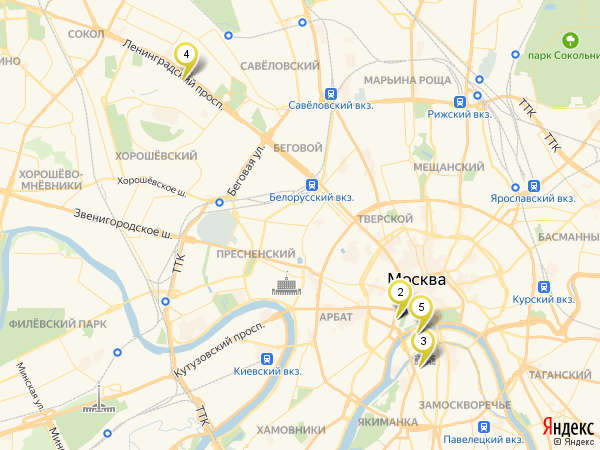
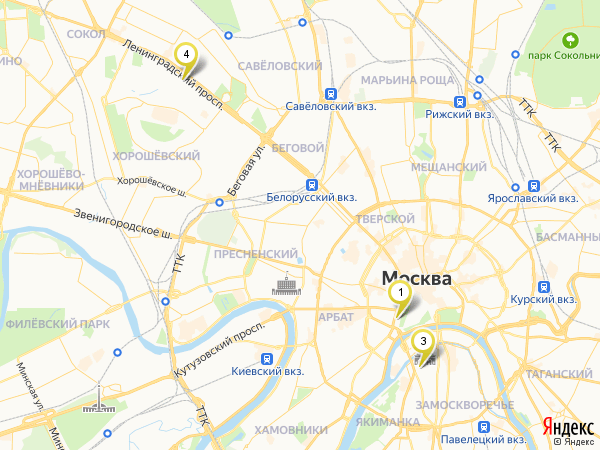
commit 4

diff --git a/templates/my_jobs.html b/templates/my_jobs.html
@@ -11,30 +11,37 @@
 <table class="table table-striped">
     <thead>
     <tr class="table-active">
-        <th scope="col">Title of activity</th>
-        <th scope="col">Team leader</th>
-        <th scope="col">Duration</th>
-        <th scope="col">List of collaborators</th>
-        <th scope="col">Is finished</th>
+        <th scope="col">Краткое описание работы</th>
+        <th scope="col">Адрес</th>
+        <th scope="col">Оплата за услугу (в рублях)</th>
+        <th scope="col">Дата и время, когда нужно прийти</th>
+        <th scope="col">Доп. информация</th>
     </tr>
     </thead>
     <tbody>
     <tr>
         <td>{{ item.description }}</td>
-        <td>{{ item.employer }}</td>
         <td>{{ item.address }}</td>
         <td>{{ item.salary }}</td>
         <td>{{ item.date }}</td>
         <td>{{ item.info }}</td>
-        <td>{{ item.is_finished }}</td>
     </tr>
-
     </tbody>
 </table>
 <div>
-    <a href="/addjob/{{ item.id }}" class="btn btn-warning" style="margin-bottom: 30px">Edit job</a>
-    <a href="/job_delete/{{ item.id }}" class="btn btn-danger" style="margin-bottom: 30px">Delete job</a>
+    <a href="/addjob/{{ item.id }}" class="btn btn-warning" style="margin-bottom: 30px">Редактировать</a>
+    <a href="/job_delete/{{ item.id }}" class="btn btn-danger" style="margin-bottom: 30px">Удалить</a>
 </div>
+
+{% if item.employee != 0 %}
+<div>
+    <p>За работу взялся (взялась, взялось, взялись):</p>
+    <p>{{ users[item.employee].surname }} {{ users[item.employee].name}}</p>
+    {% if users[item.employee].info != '' %}
+    <p>Доп.информация: {{ users[item.employee].info }}</p>
+    {% endif %}
+</div>
+{% endif %}
 {% endfor %}
 
 
@@ -47,29 +54,35 @@
 <table class="table table-striped">
     <thead>
     <tr class="table-active">
-        <th scope="col">Title of activity</th>
-        <th scope="col">Team leader</th>
-        <th scope="col">Duration</th>
-        <th scope="col">List of collaborators</th>
-        <th scope="col">Is finished</th>
+        <th scope="col">Краткое описание работы</th>
+        <th scope="col">Адрес</th>
+        <th scope="col">Оплата за услугу (в рублях)</th>
+        <th scope="col">Дата и время, когда нужно прийти</th>
+        <th scope="col">Доп. информация</th>
     </tr>
     </thead>
     <tbody>
     <tr>
         <td>{{ item.description }}</td>
-        <td>{{ item.employer }}</td>
         <td>{{ item.address }}</td>
         <td>{{ item.salary }}</td>
         <td>{{ item.date }}</td>
         <td>{{ item.info }}</td>
-        <td>{{ item.is_finished }}</td>
     </tr>
-
     </tbody>
 </table>
-{% endfor %}
 
+{% if item.employee != 0 %}
+<div>
+    <p>Услугу предоставил (предоставила, предоставило, предоставили):</p>
+    <p>{{ users[item.employee].surname }} {{ users[item.employee].name}}</p>
+    {% if users[item.employee].info != '' %}
+    <p>Доп.информация: {{ users[item.employee].info }}</p>
+    {% endif %}
+</div>
 {% endif %}
 
+{% endfor %}
+{% endif %}
 
 {% endblock %}

diff --git a/templates/index.html b/templates/index.html
@@ -35,37 +35,26 @@
 {% if item.is_finished == False %}
 <h4>Работа № {{ item.id }}</h4>
 
-
-<table class="table table-striped">
-    <thead>
-    <tr class="table-active">
-        <th scope="col">Краткое описание работы</th>
-        <th scope="col">id нанимателя</th>
-        <th scope="col">Адрес</th>
-        <th scope="col">Оплата за услугу (в рублях)</th>
-        <th scope="col">Дата и время, когда нужно прийти</th>
-        <th scope="col">Доп. информация</th>
-
-    </tr>
-    </thead>
-    <tbody>
-    <tr>
-        <td>{{ item.description }}</td>
-        <td>{{ item.employer }}</td>
-        <td>{{ item.address }}</td>
-        <td>{{ item.salary }}</td>
-        <td>{{ item.date }}</td>
-        <td>{{ item.info }}</td>
-    </tr>
-    </tbody>
-</table>
+<ul>
+    <li>Краткое описание работы: {{ item.description }}</li>
+    <li>Адрес: {{ item.address }}</li>
+    <li>Оплата за услугу: {{ item.salary }} руб.</li>
+    <li>Когда приходить: {{ item.date }}</li>
+</ul>
 
 {% if current_user.is_authenticated and current_user.id == item.employer %}
 <div>
-    <a href="/addjob/{{ item.id }}" class="btn btn-warning" style="margin-bottom: 30px">Edit job</a>
-    <a href="/job_delete/{{ item.id }}" class="btn btn-danger" style="margin-bottom: 30px">Delete job</a>
+    <a href="/addjob/{{ item.id }}" class="btn btn-warning" style="margin-bottom: 30px">Редактировать</a>
+    <a href="/job_delete/{{ item.id }}" class="btn btn-danger" style="margin-bottom: 30px">Удалить</a>
 </div>
 {% endif %}
+
+{% if current_user.is_authenticated and current_user.employment == 'Рабочий' %}
+<div>
+    <a href="/about_job/{{ item.id }}" class="btn btn-warning" style="margin-bottom: 30px">Подробнее</a>
+</div>
+{% endif %}
+
 {% endif %}
 {% endfor %}
 

diff --git a/templates/about.html b/templates/about.html
@@ -1,0 +1,40 @@
+{% extends "base.html" %}
+
+{% block content %}
+
+<h2 align="center">Все предложения работы</h2>
+
+<h4>Работа № {{ job.id }}</h4>
+
+<ul>
+    <li>Краткое описание работы: {{ job.description }}</li>
+    <li>Адрес: {{ job.address }}</li>
+    <li>Оплата за услугу: {{ job.salary }} руб.</li>
+    <li>Когда приходить: {{ job.date }}</li>
+    <li>Доп. информация: {{ job.info }}</li>
+</ul>
+<ul>Работодатель
+    <li>{{ employer.surname }} {{ employer.name }}</li>
+    <li>Email: {{ employer.email }}</li>
+    <li>Информация: {{ employer.info }}</li>
+</ul>
+
+
+<form action="" method="POST">
+    {% if current_user.is_authenticated and current_user.employment == 'Рабочий' and job.employee == 0 %}
+    <p>{{ form.submit_ready(type="submit", class="btn btn-primary") }}</p>
+
+    {% elif current_user.is_authenticated and current_user.id == job.employee %}
+    <div>
+        <p>Вы уже готовы приступить к работе</p>
+    </div>
+    <p>{{ form.submit_refuse(type="submit", class="btn btn-primary") }}</p>
+    {% elif current_user.is_authenticated and current_user.id != job.employee and job.employee != 0 %}
+    <div>
+        <p>Эту услугу уже кто-то предоствляет</p>
+    </div>
+    {% endif %}
+    {{message}}
+</form>
+
+{% endblock %}

diff --git a/data/jobs_api.py b/data/jobs_api.py
@@ -7,7 +7,7 @@ from werkzeug.utils import redirect
 
 from data import db_session
 from data.users import User
-from data.jobs import Jobs, JobsForm, AddressJob
+from data.jobs import Jobs, JobsForm, AddressJob, Ready
 from data.show_map import show, sort_address_jobs, sort_salary_jobs, sort_date_jobs
 
 blueprint = flask.Blueprint('jobs_api', __name__, template_folder='templates')
@@ -34,16 +34,19 @@ def index():
                 jobs = sort_date_jobs('down')
     if jobs is None:
         jobs = session.query(Jobs).all()
-    users = session.query(User).all()
-    return render_template("index.html", jobs=jobs, users=users, image=image, form=form)
+    return render_template("index.html", jobs=jobs, image=image, form=form)
 
 
 @blueprint.route("/myjobs")
 def myjobs():
     session = db_session.create_session()
     jobs = session.query(Jobs).filter(Jobs.employer == current_user.id, Jobs.is_finished == False).all()
+    sp = session.query(User).all()
+    users = {}
+    for user in sp:
+        users[user.id] = user
     jobs_done = session.query(Jobs).filter(Jobs.employer == current_user.id, Jobs.is_finished == True).all()
-    return render_template("my_jobs.html", jobs=jobs, jobs_done=jobs_done)
+    return render_template("my_jobs.html", jobs=jobs, users=users, jobs_done=jobs_done)
 
 
 @blueprint.route('/addjob', methods=['GET', 'POST'])
@@ -139,3 +142,25 @@ def job_delete(job_id):
     else:
         abort(404)
     return redirect('/myjobs')
+
+
+@blueprint.route('/about_job/<int:job_id>', methods=['GET', 'POST'])
+@login_required
+def about_job(job_id):
+    form = Ready()
+    session = db_session.create_session()
+    job = session.query(Jobs).filter(Jobs.id == job_id).first()
+    employer = session.query(User).filter(User.id == job.employer).first()
+    if request.method == "POST":
+        if form.submit_ready.data:
+            job.employee = current_user.id
+        if form.submit_refuse.data:
+            job.employee = 0
+    session.commit()
+    return render_template("about.html", job=job, employer=employer, form=form)
+
+
+@blueprint.route('/ready_to_work/<int:job_id>', methods=['GET', 'POST'])
+@login_required
+def ready_to_work(job_id):
+    return redirect('/')

diff --git a/data/jobs.py b/data/jobs.py
@@ -21,6 +21,7 @@ class Jobs(SqlAlchemyBase):
     date = sqlalchemy.Column(sqlalchemy.String)
     coords = sqlalchemy.Column(sqlalchemy.String)
     is_finished = sqlalchemy.Column(sqlalchemy.Boolean, default=False)
+    employee = sqlalchemy.Column(sqlalchemy.Integer, default=0)
     user = orm.relation('User')
 
 
@@ -31,7 +32,7 @@ class JobsForm(FlaskForm):
     address = TextAreaField("Адрес", validators=[DataRequired()])
     info = TextAreaField("Доп. информация")
     coords = TextAreaField("Координаты")
-    date = TextAreaField("Дата и время, когда нужно прийти", validators=[DataRequired()])
+    date = TextAreaField("Когда нужно прийти (дата и время)", validators=[DataRequired()])
     is_finished = BooleanField("Выполнена ли работа?")
     submit = SubmitField('Готово')
 
@@ -45,3 +46,8 @@ class AddressJob(FlaskForm):
     my_address = StringField('Ваш адрес')
     submit_address = SubmitField('Найти ближайшие предложения')
     submit_sort = SubmitField('Сортировать')
+
+
+class Ready(FlaskForm):
+    submit_ready = SubmitField('Готов(а, о, ы) приступить к работе')
+    submit_refuse = SubmitField('Отказаться')

diff --git a/data/show_map.py b/data/show_map.py
@@ -8,9 +8,9 @@ from data.jobs import Jobs
 def show():
     db_session.global_init("db/jobs.db")
     session = db_session.create_session()
-    points = session.query(Jobs.coords, Jobs.id).all()
-    ids = [el[1] for el in points]
-    points = [el[0] for el in points]
+    points = session.query(Jobs.coords, Jobs.id, Jobs.is_finished).all()
+    ids = [el[1] for el in points if el[2] == False]
+    points = [el[0] for el in points if el[2] == False]
     points = [f'{points[i].split()[0]},{points[i].split()[1]},pm2ywl{ids[i]}' for i in range(len(points))]
     map_request = f"http://static-maps.yandex.ru/1.x/?&l=map&pt={'~'.join(points)}"
     response = requests.get(map_request)
